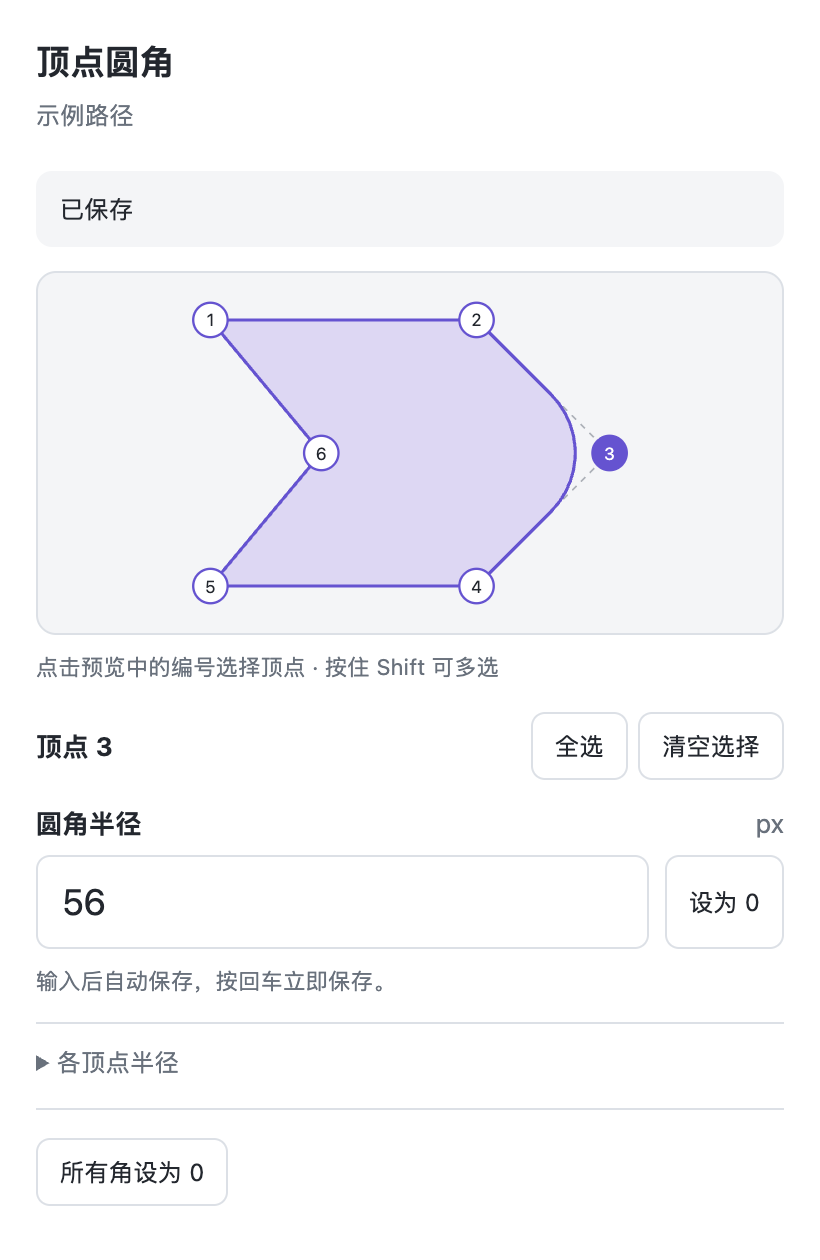
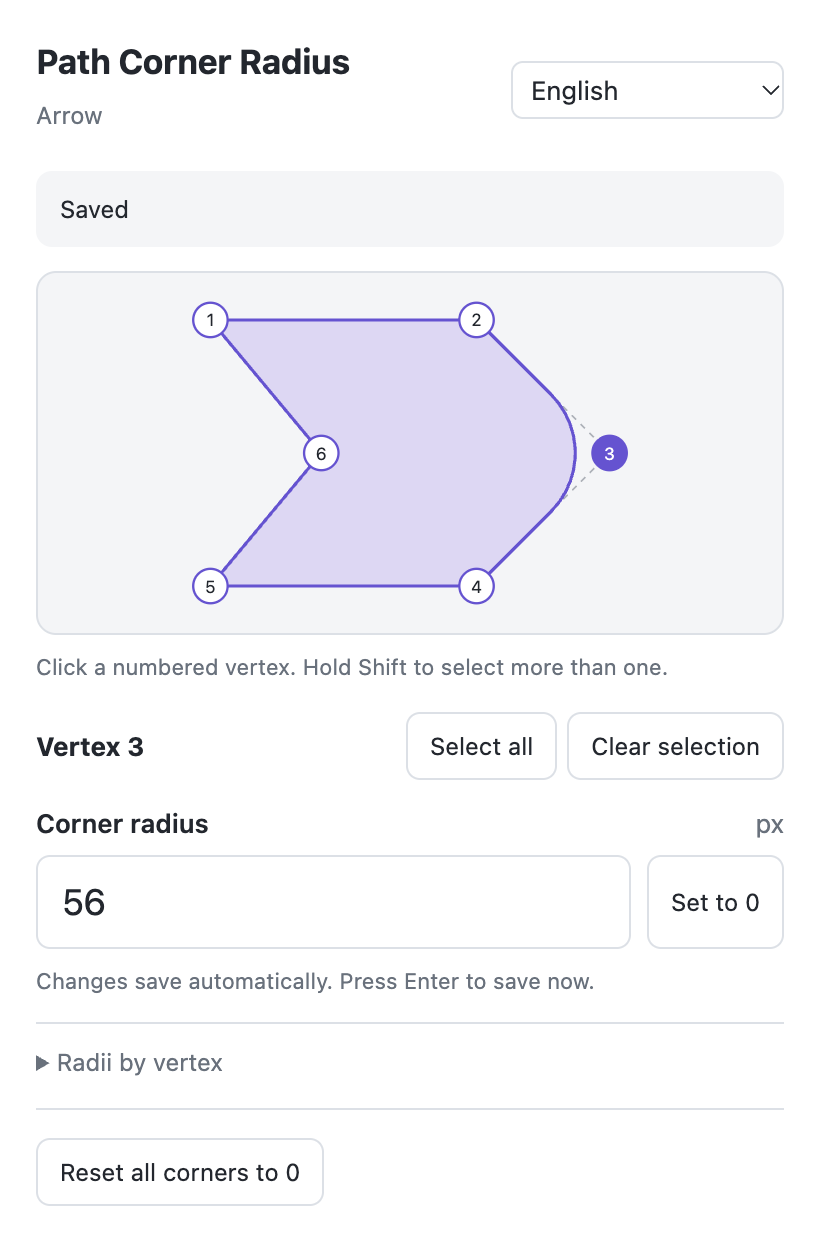
feat(plugin): add English and Chinese localization

diff --git a/src/index.html b/src/index.html
@@ -3,37 +3,42 @@
   <head>
     <meta charset="UTF-8" />
     <meta name="viewport" content="width=device-width, initial-scale=1" />
-    <title>顶点圆角 · Path Corner Radius</title>
+    <title data-i18n>顶点圆角</title>
     <link rel="stylesheet" href="./style.css" />
   </head>
   <body>
     <header>
       <div>
-        <h1>顶点圆角</h1>
-        <p id="shape-name">选择异形路径，逐个调整圆角</p>
+        <h1 data-i18n>顶点圆角</h1>
+        <p id="shape-name"></p>
       </div>
-      <select id="layers" aria-label="选择图层" hidden></select>
+      <select id="language" aria-label="界面语言" data-i18n-aria>
+        <option value="auto" data-i18n>跟随浏览器</option>
+        <option value="en" lang="en">English</option>
+        <option value="zh" lang="zh-CN">简体中文</option>
+      </select>
     </header>
+    <select id="layers" aria-label="选择图层" data-i18n-aria hidden></select>
     <div id="notice" role="status" aria-live="polite">
-      选中图形即可调整圆角。
+      选中一个图形即可调整圆角。
     </div>
     <main id="editor" hidden>
       <div class="preview-wrap">
-        <svg id="preview" viewBox="0 0 400 230" aria-label="路径顶点预览">
+        <svg id="preview" viewBox="0 0 400 230" aria-label="路径顶点预览" data-i18n-aria>
           <path id="original" />
           <path id="rounded" />
           <g id="vertices"></g>
         </svg>
       </div>
-      <p class="caption">点击预览中的编号选择顶点 · 按住 Shift 可多选</p>
+      <p class="caption" data-i18n>点击预览中的编号选择顶点 · 按住 Shift 可多选</p>
       <div class="selection-line">
-        <strong id="selection-label">顶点 1</strong>
+        <strong id="selection-label"></strong>
         <div>
-          <button id="all" class="subtle">全选</button
-          ><button id="none" class="subtle">清空选择</button>
+          <button id="all" class="subtle" data-i18n>全选</button
+          ><button id="none" class="subtle" data-i18n>清空选择</button>
         </div>
       </div>
-      <label class="radius-label" for="radius">圆角半径 <span>px</span></label>
+      <label class="radius-label" for="radius"><span data-i18n>圆角半径</span> <span class="unit">px</span></label>
       <div class="radius-control">
         <input
           id="radius"
@@ -43,16 +48,16 @@
           step="1"
           inputmode="decimal"
           aria-describedby="radius-help"
-        /><button id="zero" class="subtle">设为 0</button>
+        /><button id="zero" class="subtle" data-i18n>设为 0</button>
       </div>
-      <p id="radius-help" class="caption">输入后自动保存，按回车立即保存。</p>
+      <p id="radius-help" class="caption" data-i18n>输入后自动保存，按回车立即保存。</p>
       <div id="limit-note" class="limit" hidden></div>
       <details>
-        <summary>各顶点半径</summary>
+        <summary data-i18n>各顶点半径</summary>
         <div id="radius-list"></div>
       </details>
       <footer>
-        <button id="restore" class="subtle">所有角设为 0</button>
+        <button id="restore" class="subtle" data-i18n>所有角设为 0</button>
       </footer>
     </main>
     <script type="module" src="./ui.mjs"></script>

diff --git a/src/style.css b/src/style.css
@@ -174,7 +174,7 @@ p {
   margin-top: 12px;
   font-weight: 600;
 }
-.radius-label span {
+.radius-label .unit {
   float: right;
   color: var(--muted);
   font-weight: 400;
@@ -256,9 +256,21 @@ li {
   display: none;
 }
 #layers {
-  max-width: 48%;
+  margin-bottom: 10px;
+  max-width: 100%;
   font: inherit;
 }
 #preview {
   height: 180px;
+}
+
+#language {
+  flex-shrink: 0;
+  max-width: 44%;
+  padding: 5px;
+  border: 1px solid var(--line);
+  border-radius: 6px;
+  font: inherit;
+  background: var(--bg);
+  color: var(--fg);
 }

diff --git a/README.md b/README.md
@@ -1,36 +1,39 @@
-# Path Corner Radius · 顶点圆角
+# Path Corner Radius
 
-Change one corner of a vector path without rounding the others. Path Corner Radius also edits the native corners of rectangles and boards. The plugin interface is in Simplified Chinese.
+English · [简体中文](README.zh-CN.md)
 
-![Select vertex 3, enter a radius of 56 px and see the sharp tip become round.](docs/images/corner-walkthrough.png)
+Round one vertex of a vector path while keeping the others sharp. The plugin also edits the native corners of rectangles and boards. In this example, only the tip of the arrow changes, from 0 to 56 px.
 
-## How to use · 使用方式
-
-1. Select a path on the canvas and open **Path Corner Radius**. Click the numbered vertex you want to edit. Hold **Shift** to select several.
-2. Type a radius in pixels. Press **Enter** to save immediately, or pause to let the plugin save automatically.
-3. In the example, only vertex **3** changes from **0** to **56 px**. Enter **0** to restore a sharp corner, or use Penpot’s undo and redo.
-
-选中路径并打开插件，在预览中点击要修改的编号，输入半径即可。图中只把第 3 个顶点从尖角改为半径 56 px 的圆角，其他顶点保留原状。
-
-<img src="docs/images/corner-panel.png" alt="插件面板显示示例路径，顶点 3 已保存为 56 px" width="410">
+![Select the arrow tip, enter 56 px and see the rounded result.](docs/images/corner-walkthrough.png)
 
 ## Install
 
-Open the plugin manager in the Penpot editor, paste the [manifest URL](https://tykevin.github.io/penpot-path-corner-radius/manifest.json) and choose **Install → Allow**. Open the plugin and select a shape on the canvas.
+In the Penpot editor, open **Plugins**, paste the [manifest URL](https://tykevin.github.io/penpot-path-corner-radius/manifest.json) and choose **Install → Allow**. Open **Path Corner Radius** and select a shape on the canvas.
 
-## Editing corners
+## Edit a corner
 
-- Rectangles and boards use native integer corner radii. Their children and layout are preserved.
-- Vector paths support fractional radii on editable corners. The plugin can recognize some existing circular fillets on imported paths. Smooth nodes and open endpoints have no corner to round.
-- Enter zero to restore a sharp corner. Oversized radii are limited by the available geometry.
-- Use the layer selector to switch between editable shapes in a group.
+1. Click a numbered vertex in the preview. Hold **Shift** to select several. For a group, use the layer menu to pick the shape to edit.
+2. Enter a radius in pixels. Press **Enter** to save immediately, or pause to save automatically.
+3. Enter **0** to restore a sharp corner. You can undo and redo edits in Penpot.
+
+<img src="docs/images/corner-panel.png" alt="English plugin panel showing vertex 3 saved at 56 px." width="410">
+
+## Interface language
+
+The panel follows your browser’s preferred supported language, with English as the fallback. Use the menu at the top of the panel to select **English**, **简体中文** or **Browser language**. When browser storage is available, the panel remembers your choice. Layer names appear exactly as written in your design.
+
+## Supported shapes
+
+- Rectangles and boards use native whole-number radii and retain their children and layout.
+- Vector paths support fractional radii at editable corners. Some circular fillets on imported paths can be recognized. Smooth nodes and open endpoints have no corner to round.
+- Nearby edges can limit the effective radius. The panel shows the limit and keeps the entered value.
 
 ## Data and permissions
 
-The plugin uses `content:read` to inspect the selection and `content:write` to apply edits. For paths, it stores editable geometry on the shape in the Penpot document. The plugin has no analytics, external API calls, or service of its own. The browser requests the plugin’s static files from GitHub Pages.
+The plugin uses `content:read` to read the selection and `content:write` to apply edits. It saves editable path geometry on the shape in your Penpot document. The browser loads static files from GitHub Pages. The plugin has no analytics or external API calls.
 
 ## Development
 
-With Node.js 20 or later, run `npm test` and then `npm run build`. The static plugin is built into `dist/`. GitHub Pages serves that directory after tests pass on the main branch.
+With Node.js 20 or later, run `npm test` and `npm run build`. GitHub Pages deploys the static files in `dist/` after tests pass on the main branch.
 
-Released under the [Mozilla Public License 2.0](LICENSE).
+[Mozilla Public License 2.0](LICENSE)

diff --git a/README.zh-CN.md b/README.zh-CN.md
@@ -1,0 +1,39 @@
+# 顶点圆角
+
+[English](README.md) · 简体中文
+
+在矢量路径上选择一个顶点，就能单独调整它的圆角。插件也支持矩形和画板的原生圆角。下图只将箭头尖端的半径从 0 改为 56 px，其余顶点保留原状。
+
+![选中箭头尖端，输入 56 px，查看保存后的圆角。](docs/images/corner-walkthrough-zh.png)
+
+## 安装
+
+在 Penpot 编辑器打开 **Plugins（插件）**，粘贴[插件安装地址](https://tykevin.github.io/penpot-path-corner-radius/manifest.json)，依次点击 **Install → Allow**。打开「顶点圆角」，在画布上选中一个图形。
+
+## 编辑圆角
+
+1. 点击预览中带编号的顶点。按住 **Shift** 可以多选。选中组合时，可通过图层菜单切换目标形状。
+2. 输入圆角半径，单位为像素。按 **Enter** 立即保存，也可以停止输入，等待自动保存。
+3. 输入 **0** 可恢复尖角。Penpot 的撤销和重做同样适用于圆角编辑。
+
+<img src="docs/images/corner-panel-zh.png" alt="中文插件面板显示第 3 个顶点已保存为 56 px。" width="410">
+
+## 界面语言
+
+插件会按浏览器的语言偏好选择简体中文或英文，其他语言默认显示英文。面板顶部可以选择 **English**、**简体中文** 或 **跟随浏览器**。浏览器允许本地存储时会记住选择。设计稿中的图层名称始终按原文显示。
+
+## 支持的图形
+
+- 矩形和画板使用原生整数半径，保留子图层和布局。
+- 矢量路径上的转角支持小数半径，也能识别部分导入路径已有的圆弧。平滑节点和开放端点没有可倒圆的转角。
+- 相邻边可能限制实际半径。面板会显示限制并保留输入值。
+
+## 数据和权限
+
+插件通过 `content:read` 读取选区，通过 `content:write` 应用编辑。可再次编辑的路径数据保存在 Penpot 文档的对应图层上。浏览器从 GitHub Pages 加载插件静态文件。插件没有统计追踪或外部 API 调用。
+
+## 本地开发
+
+使用 Node.js 20 或更高版本，运行 `npm test` 和 `npm run build`。主分支测试通过后，GitHub Pages 会部署 `dist/` 中的静态文件。
+
+[Mozilla 公共许可证 2.0](LICENSE)
